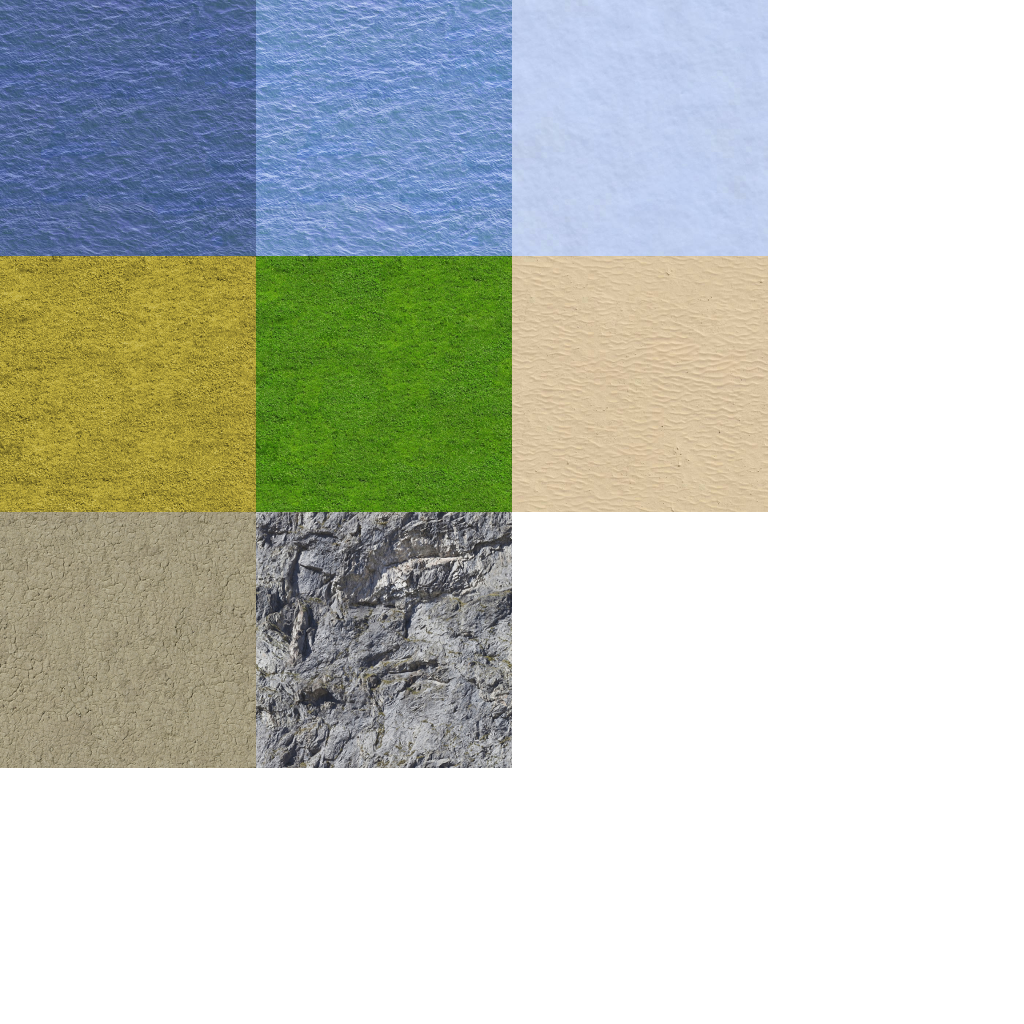
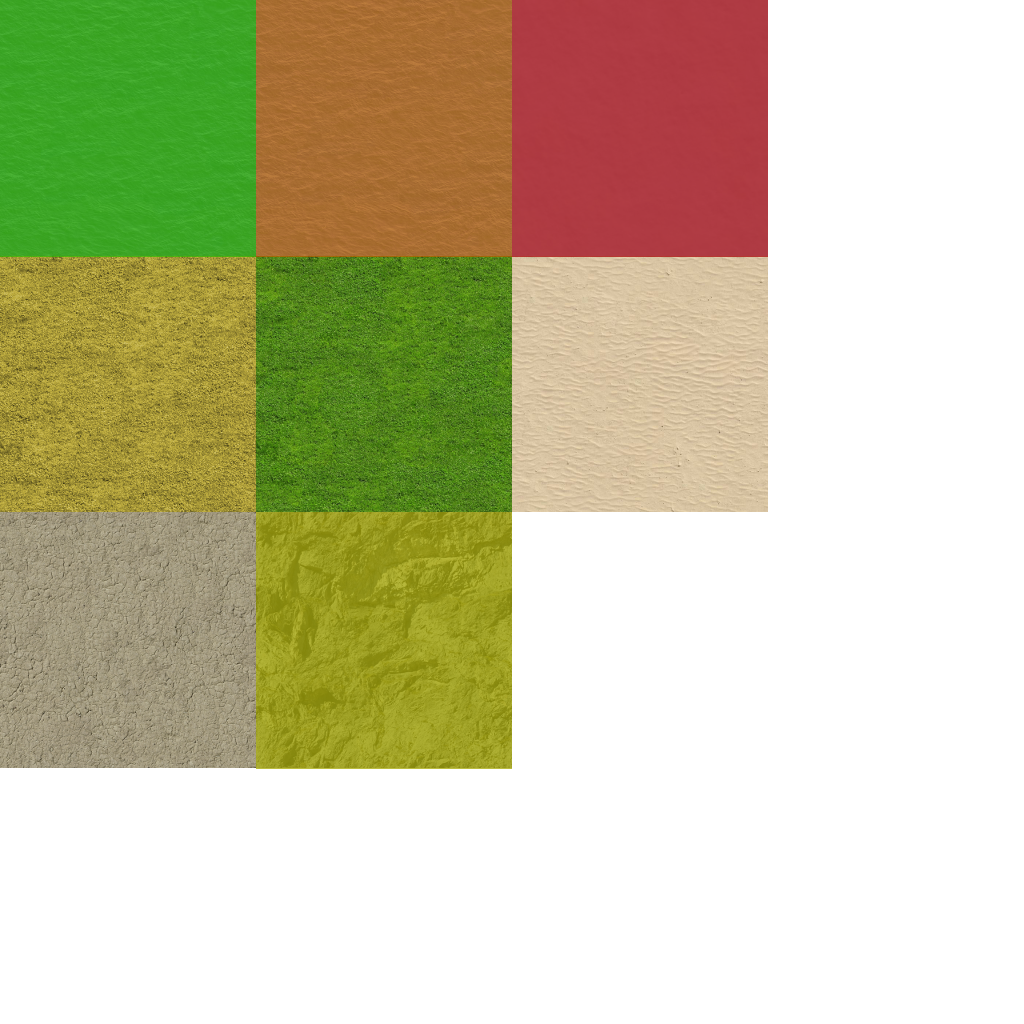
new colors

Changed region(s): [[0.0, 0.0, 0.75, 0.25], [0.25, 0.5, 0.5, 0.75]]

diff --git a/frontend/lib/examples/textureswap/main.js b/frontend/lib/examples/textureswap/main.js
@@ -40,7 +40,7 @@ define(["require", "exports", "view", "input", "./util", "../../src/Simulator"],
     var zoom = util_1.paramFloat("zoom", 50);
     function init() {
         return __awaiter(this, void 0, void 0, function () {
-            var mapView, containers, _loop_1, i, simulator;
+            var mapView, containers, i, container, name_1, simulator;
             return __generator(this, function (_a) {
                 switch (_a.label) {
                     case 0: return [4 /*yield*/, view_1.initView(mapSize, zoom)];
@@ -49,19 +49,15 @@ define(["require", "exports", "view", "input", "./util", "../../src/Simulator"],
                         input_1.initInput(mapView);
                         containers = document.querySelectorAll("#textures div");
                         console.log(containers);
-                        _loop_1 = function (i) {
-                            var container = containers.item(i);
-                            var name_1 = container.id;
+                        for (i = 0; i < containers.length; i++) {
+                            container = containers.item(i);
+                            name_1 = container.id;
                             container.addEventListener("dragenter", noop, false);
                             container.addEventListener("dragexit", noop, false);
                             container.addEventListener("dragover", noop, false);
                             container.addEventListener("drop", function (e) {
                                 e.preventDefault();
-                                replaceTexture(mapView, name_1, e.dataTransfer.files[0]);
                             }, false);
-                        };
-                        for (i = 0; i < containers.length; i++) {
-                            _loop_1(i);
                         }
                         simulator = new Simulator_1.Simulator(mapView);
                         simulator.start();
@@ -72,20 +68,6 @@ define(["require", "exports", "view", "input", "./util", "../../src/Simulator"],
     }
     function noop(e) {
         e.preventDefault();
-    }
-    function replaceTexture(mapView, name, image) {
-        var img = document.createElement("img");
-        img.onload = function () {
-            var _a;
-            console.log("Replacing texture " + name + "...");
-            var texture = new THREE.Texture(img);
-            mapView.mapMesh.replaceTextures((_a = {}, _a[name] = texture, _a));
-        };
-        var reader = new FileReader();
-        reader.onload = function (e) {
-            img.src = e.target.result;
-        };
-        reader.readAsDataURL(image);
     }
     init();
 });

diff --git a/frontend/dist/threejs-hex-map.js b/frontend/dist/threejs-hex-map.js
@@ -193,6 +193,7 @@ define("threejs-hex-map", ["three"], function(__WEBPACK_EXTERNAL_MODULE_4__) { r
 	            var landStyleAttr = landGeometry.getAttribute("style");
 	            var mountainsGeometry = this.mountains.geometry;
 	            var mountainsStyleAttr = mountainsGeometry.getAttribute("style");
+	            var texture = new THREE.MeshBasicMaterial();
 	            tiles.forEach(function (updated) {
 	                var old = _this.localGrid.get(updated.q, updated.r);
 	                if (!old)
@@ -1088,6 +1089,22 @@ define("threejs-hex-map", ["three"], function(__WEBPACK_EXTERNAL_MODULE_4__) { r
 	        return [].concat.apply([], items);
 	    }
 	    exports.flatten = flatten;
+	    /**
+	     * Convert hex color string to an RGB object.
+	     */
+	    function hexToRGB(hex) {
+	        hex = hex.replace("#", "");
+	        if (hex.length === 3) {
+	            hex = hex.split("").map(function (char) { return char + char; }).join(""); // Convert #RGB to #RRGGBB
+	        }
+	        var num = parseInt(hex, 16);
+	        return {
+	            r: ((num >> 16) & 255) / 255,
+	            g: ((num >> 8) & 255) / 255,
+	            b: (num & 255) / 255
+	        };
+	    }
+	    exports.hexToRGB = hexToRGB;
 	}.apply(exports, __WEBPACK_AMD_DEFINE_ARRAY__), __WEBPACK_AMD_DEFINE_RESULT__ !== undefined && (module.exports = __WEBPACK_AMD_DEFINE_RESULT__));
 	//# sourceMappingURL=util.js.map
 

diff --git a/frontend/src/MapMesh.ts b/frontend/src/MapMesh.ts
@@ -284,12 +284,16 @@ export default class MapMesh extends Group implements TileDataSource {
 
         const landGeometry = this.land.geometry as InstancedBufferGeometry;
         const landStyleAttr = landGeometry.getAttribute("style") as InstancedBufferAttribute;
+
         const mountainsGeometry = this.mountains.geometry as InstancedBufferGeometry;
         const mountainsStyleAttr = mountainsGeometry.getAttribute("style") as InstancedBufferAttribute;
+
+        const texture = new THREE.MeshBasicMaterial();
 
         tiles.forEach(updated => {
             const old = this.localGrid.get(updated.q, updated.r);
             if (!old) return;
+
 
             if (updated.terrain !== old.terrain) {
                 // Update tile terrain
@@ -310,6 +314,7 @@ export default class MapMesh extends Group implements TileDataSource {
                 attribute.setX(old.bufferIndex, newCellIndex);
             }
         });
+
 
         landStyleAttr.needsUpdate = true;
         mountainsStyleAttr.needsUpdate = true;

diff --git a/frontend/examples/textureswap/main.ts b/frontend/examples/textureswap/main.ts
@@ -23,7 +23,6 @@ async function init() {
         container.addEventListener("dragover", noop, false)
         container.addEventListener("drop", (e: DragEvent) => {
             e.preventDefault()
-            replaceTexture(mapView, name, e.dataTransfer.files[0])
         }, false)
     }
 
@@ -34,22 +33,6 @@ async function init() {
 
 function noop(e: DragEvent) {
     e.preventDefault()
-}
-
-function replaceTexture(mapView: MapView, name: string, image: File) {
-    const img = document.createElement("img")
-    img.onload = () => {
-        console.log("Replacing texture " + name + "...")
-        const texture = new THREE.Texture(img)
-        mapView.mapMesh.replaceTextures({[name]: texture})
-    }
-
-    const reader = new FileReader()
-    reader.onload = (e: any) => {
-        img.src = e.target.result
-    }
-
-    reader.readAsDataURL(image)
 }
 
 init()

diff --git a/frontend/lib/src/util.js b/frontend/lib/src/util.js
@@ -153,5 +153,21 @@ define(["require", "exports", "three"], function (require, exports, three_1) {
         return [].concat.apply([], items);
     }
     exports.flatten = flatten;
+    /**
+     * Convert hex color string to an RGB object.
+     */
+    function hexToRGB(hex) {
+        hex = hex.replace("#", "");
+        if (hex.length === 3) {
+            hex = hex.split("").map(function (char) { return char + char; }).join(""); // Convert #RGB to #RRGGBB
+        }
+        var num = parseInt(hex, 16);
+        return {
+            r: ((num >> 16) & 255) / 255,
+            g: ((num >> 8) & 255) / 255,
+            b: (num & 255) / 255
+        };
+    }
+    exports.hexToRGB = hexToRGB;
 });
 //# sourceMappingURL=util.js.map

diff --git a/frontend/lib/examples/textureswap/view.js b/frontend/lib/examples/textureswap/view.js
@@ -209,7 +209,7 @@ define(["require", "exports", "../../src/MapView", "../../src/util", "../../src/
                                                 .querySelector("button")
                                                 .addEventListener("click", function () {
                                                 tile.plant = plant;
-                                                tile.terrain = "tundra";
+                                                tile.terrain = "green_plant";
                                                 mapView.updateTiles([tile]);
                                                 plantDialog.classList.add("hidden");
                                             });

diff --git a/frontend/src/util.ts b/frontend/src/util.ts
@@ -115,3 +115,19 @@ export function isInteger(value: number): boolean {
 export function flatten<T>(items: T[][]): T[] {
     return [].concat.apply([], items)
 }
+
+/**
+ * Convert hex color string to an RGB object.
+ */
+export function hexToRGB(hex: string): { r: number, g: number, b: number } {
+    hex = hex.replace("#", "");
+    if (hex.length === 3) {
+        hex = hex.split("").map(char => char + char).join(""); // Convert #RGB to #RRGGBB
+    }
+    const num = parseInt(hex, 16);
+    return {
+        r: ((num >> 16) & 255) / 255,
+        g: ((num >> 8) & 255) / 255,
+        b: (num & 255) / 255
+    };
+}

diff --git a/frontend/lib/src/MapMesh.js b/frontend/lib/src/MapMesh.js
@@ -134,6 +134,7 @@ define(["require", "exports", "./interfaces", "./hexagon", "three", "./coords", 
             var landStyleAttr = landGeometry.getAttribute("style");
             var mountainsGeometry = this.mountains.geometry;
             var mountainsStyleAttr = mountainsGeometry.getAttribute("style");
+            var texture = new THREE.MeshBasicMaterial();
             tiles.forEach(function (updated) {
                 var old = _this.localGrid.get(updated.q, updated.r);
                 if (!old)

diff --git a/frontend/lib/src/util.d.ts b/frontend/lib/src/util.d.ts
@@ -13,3 +13,11 @@ export declare function qrEquals(a: QR, b: QR): boolean;
 export declare function minBy<T>(items: T[], by: (item: T) => number): T | null;
 export declare function isInteger(value: number): boolean;
 export declare function flatten<T>(items: T[][]): T[];
+/**
+ * Convert hex color string to an RGB object.
+ */
+export declare function hexToRGB(hex: string): {
+    r: number;
+    g: number;
+    b: number;
+};

diff --git a/frontend/examples/textureswap/view.ts b/frontend/examples/textureswap/view.ts
@@ -343,7 +343,7 @@ export async function initView(
                 .querySelector("button")
                 .addEventListener("click", () => {
                   tile.plant = plant;
-                  tile.terrain = "tundra";
+                  tile.terrain = "green_plant";
                   mapView.updateTiles([tile]);
                   plantDialog.classList.add("hidden");
                 });

diff --git a/frontend/src/map-generator.ts b/frontend/src/map-generator.ts
@@ -132,9 +132,6 @@ function seededShuffle<T>(array: T[], rng: SeededRandom): T[] {
     return array;
 }
 
-
-
-
 function randomHeight(q: number, r: number) {
     var noise1 = simplex2(q / 10, r / 10)
     var noise2 = perlin2(q / 5, r / 5)
